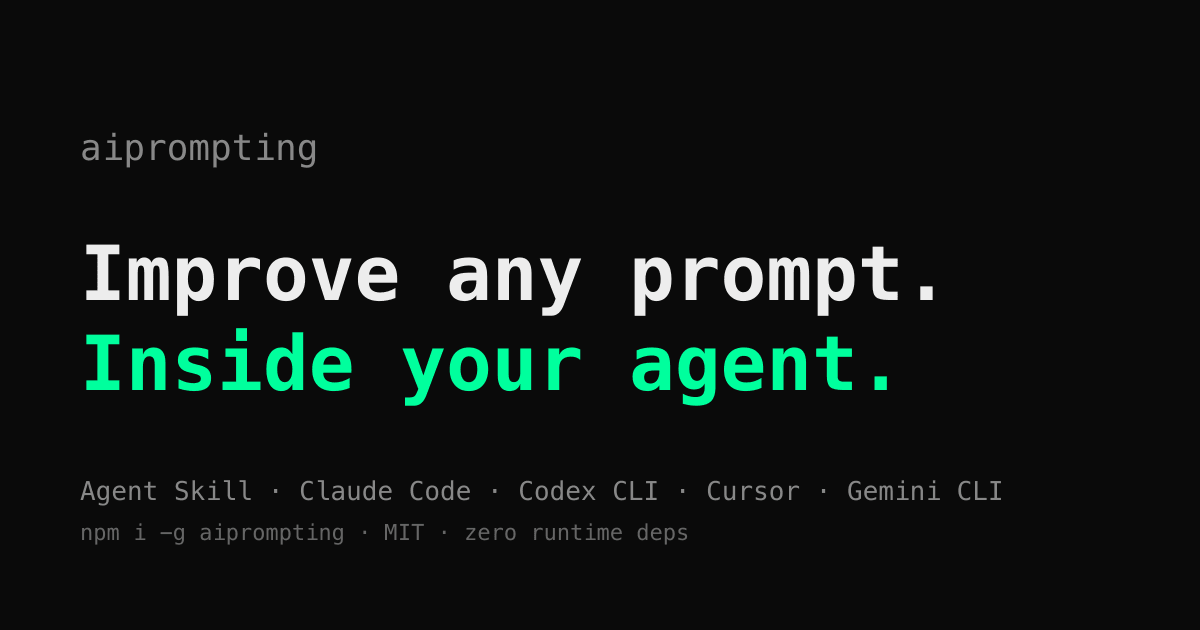
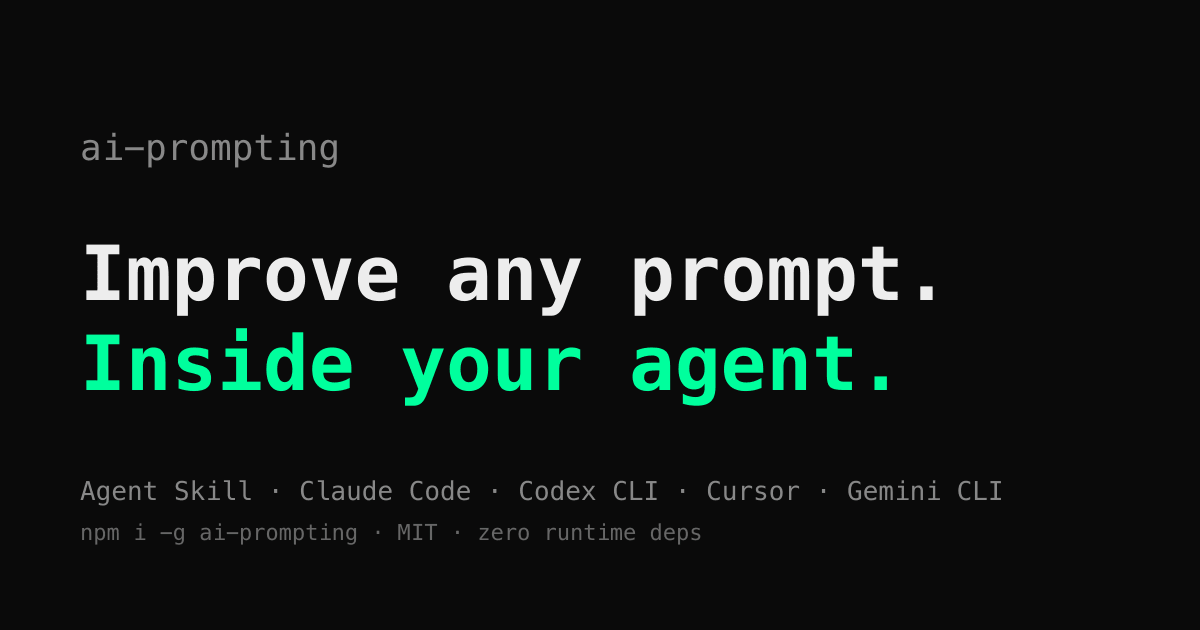
Rename to ai-prompting; update domain to ai-prompting.sh
Mirror of the package-side rename (aiprompting → ai-prompting,
v0.2.0). Site changes:

Domain & branding:
- All canonical URLs, og:url, sitemap, robots.txt, schema.org refs
  switched from `aiprompting.sh` → `ai-prompting.sh`.
- Hero pill, footer version label, OG image SVG, og:image:alt all
  updated.
- Header logo and nav still read "ai-prompting" (was "aiprompting").

Content rewrites:
- All `npx aiprompting` / `npm i -g aiprompting` snippets in copy →
  `npx ai-prompting` / `npm i -g ai-prompting`.
- All slash command references `/aiprompting:improve` →
  `/ai-prompting:improve`.
- /skill page install snippets, /docs CLI table, /examples PR link,
  /changelog source-of-truth link.

Cross-repo:
- scripts/sync-changelog.mjs now reads `../ai-prompting/CHANGELOG.md`
  (sibling). Will become valid after the inner directory rename in
  the next phase.
- Site `/changelog` page synced with package CHANGELOG containing
  the new 0.2.0 entry that documents the rename itself.

Repository URL refs in README and CONTRIBUTING moved to
github.com/matteoscurati/ai-prompting.sh (and the package repo
ref to /ai-prompting).

Build is green: 5 pages, ~16.7 KB CSS, 3.5 KB prose.css, 15.7 KB
og-image.png. Astro check 0/0/0.

Changed region(s): [[0.0925, 0.2111, 0.2775, 0.2714], [0.4008, 0.8143, 0.5858, 0.8746], [0.185, 0.8143, 0.3392, 0.8746]]

diff --git a/CONTRIBUTING.md b/CONTRIBUTING.md
@@ -1,15 +1,15 @@
 # Contributing
 
-This repo is the **website** for the `aiprompting` Skill + CLI. The Skill and CLI themselves live
-in [`matteoscurati/aiprompting`](https://github.com/matteoscurati/aiprompting).
+This repo is the **website** for the `ai-prompting` Skill + CLI. The Skill and CLI themselves live
+in [`matteoscurati/ai-prompting`](https://github.com/matteoscurati/ai-prompting).
 
 ## What belongs where
 
 | Issue / PR is about | Open it in |
 |---|---|
-| Bug in the CLI (`aiprompting improve`, `aiprompting doctor`) | [aiprompting](https://github.com/matteoscurati/aiprompting) |
-| Bug in the Skill (`/aiprompting:improve` slash command, SKILL.md) | [aiprompting](https://github.com/matteoscurati/aiprompting) |
-| New rubric category, new task type, new agent target | [aiprompting](https://github.com/matteoscurati/aiprompting) |
+| Bug in the CLI (`ai-prompting improve`, `ai-prompting doctor`) | [ai-prompting](https://github.com/matteoscurati/ai-prompting) |
+| Bug in the Skill (`/ai-prompting:improve` slash command, SKILL.md) | [ai-prompting](https://github.com/matteoscurati/ai-prompting) |
+| New rubric category, new task type, new agent target | [ai-prompting](https://github.com/matteoscurati/ai-prompting) |
 | Typo / broken link / wrong claim on the website | here |
 | New copy, new section, new before/after example on the website | here |
 | Performance regression on the website (Lighthouse, bundle size) | here |
@@ -19,8 +19,8 @@ in [`matteoscurati/aiprompting`](https://github.com/matteoscurati/aiprompting).
 Requires Node ≥ 20.
 
 ```bash
-git clone [email redacted]:matteoscurati/aiprompting.sh.git
-cd aiprompting.sh
+git clone [email redacted]:matteoscurati/ai-prompting.sh.git
+cd ai-prompting.sh
 npm install
 npm run dev
 ```
@@ -69,7 +69,7 @@ Examples on `/examples` are sourced from `src/pages/examples/index.astro`. Add a
 `npm run dev` and verify the new card renders with correct delta colors.
 
 If the example is also useful as a regression test, mirror it in the
-[main repo's `examples/`](https://github.com/matteoscurati/aiprompting/tree/main/aiprompting/examples).
+[main repo's `examples/`](https://github.com/matteoscurati/ai-prompting/tree/main/ai-prompting/examples).
 
 ## Adding a new agent to the compatibility matrix
 
@@ -80,12 +80,12 @@ then alphabetically.
 ## Updating the changelog
 
 The `/changelog` page is **synced from the package repo**, not edited here. Source of truth:
-[`aiprompting/CHANGELOG.md`](https://github.com/matteoscurati/aiprompting/blob/main/aiprompting/CHANGELOG.md).
+[`ai-prompting/CHANGELOG.md`](https://github.com/matteoscurati/ai-prompting/blob/main/ai-prompting/CHANGELOG.md).
 Workflow:
 
 1. Land the changelog entry in the package repo first.
 2. Run `npm run sync-changelog` from this site repo. The script reads
-   `../aiprompting/CHANGELOG.md` (sibling directory) and replaces the content
+   `../ai-prompting/CHANGELOG.md` (sibling directory) and replaces the content
    between the `{/* BEGIN AUTOGEN */}` / `{/* END AUTOGEN */}` markers in
    `src/pages/changelog/index.mdx`. (MDX rejects HTML comments, so the
    markers use MDX expression syntax.)

diff --git a/README.md b/README.md
@@ -1,6 +1,6 @@
-# aiprompting.sh
+# ai-prompting.sh
 
-Marketing + docs site for the [`aiprompting`](https://github.com/matteoscurati/aiprompting) Skill
+Marketing + docs site for the [`ai-prompting`](https://github.com/matteoscurati/ai-prompting) Skill
 and CLI.
 
 Built with **Astro 5** + **Tailwind v4** + **TypeScript** + **MDX**. Static-only output. No
@@ -84,11 +84,11 @@ Node version and applies sensible cache rules out of the box.
 
 1. **Push the repo to GitHub** (one-time):
    ```bash
-   gh repo create matteoscurati/aiprompting.sh --public --source=. --push
+   gh repo create matteoscurati/ai-prompting.sh --public --source=. --push
    ```
 2. **Create a Cloudflare Pages project**:
    dash.cloudflare.com → Workers & Pages → Create → Pages → Connect to Git →
-   pick `matteoscurati/aiprompting.sh`.
+   pick `matteoscurati/ai-prompting.sh`.
 3. **Build settings** (Cloudflare auto-detects most of these):
    - Framework preset: **Astro**
    - Build command: `npm run build`
@@ -98,8 +98,8 @@ Node version and applies sensible cache rules out of the box.
 4. **Save and Deploy.** The first build runs `npm ci && npm run build` and
    takes ~30s. Every subsequent push to `main` auto-deploys; PRs get preview
    URLs.
-5. **Custom domain**: Project → Custom domains → Set up. Add `aiprompting.sh`
-   plus the `www.aiprompting.sh` redirect. SSL is automatic.
+5. **Custom domain**: Project → Custom domains → Set up. Add `ai-prompting.sh`
+   plus the `www.ai-prompting.sh` redirect. SSL is automatic.
 
 ### Other hosts (also work)
 
@@ -127,5 +127,5 @@ Code: [MIT](./LICENSE). Content (prose, diagrams, examples): CC BY 4.0.
 ## Contributing
 
 See [CONTRIBUTING.md](./CONTRIBUTING.md). The Skill itself lives in
-[`matteoscurati/aiprompting`](https://github.com/matteoscurati/aiprompting) — bug reports about
+[`matteoscurati/ai-prompting`](https://github.com/matteoscurati/ai-prompting) — bug reports about
 the Skill or CLI go there. Issues about the website (copy, layout, broken links) go here.